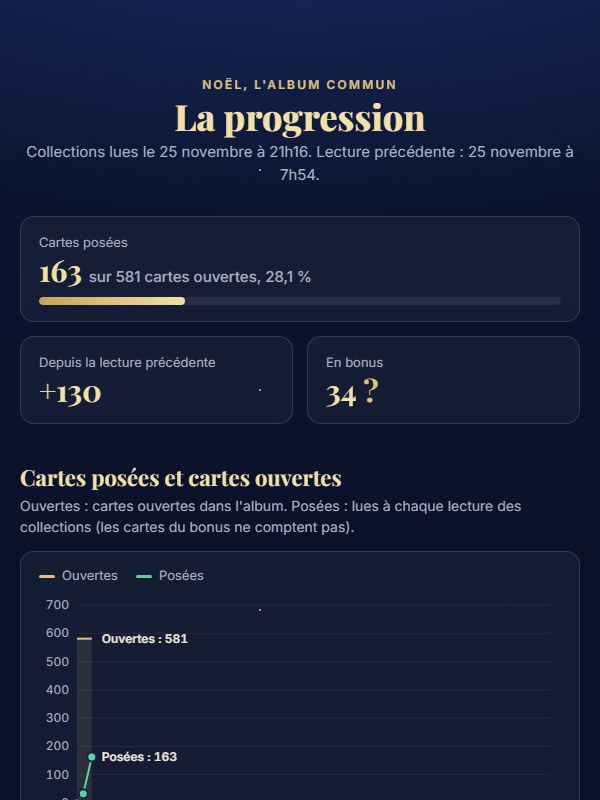
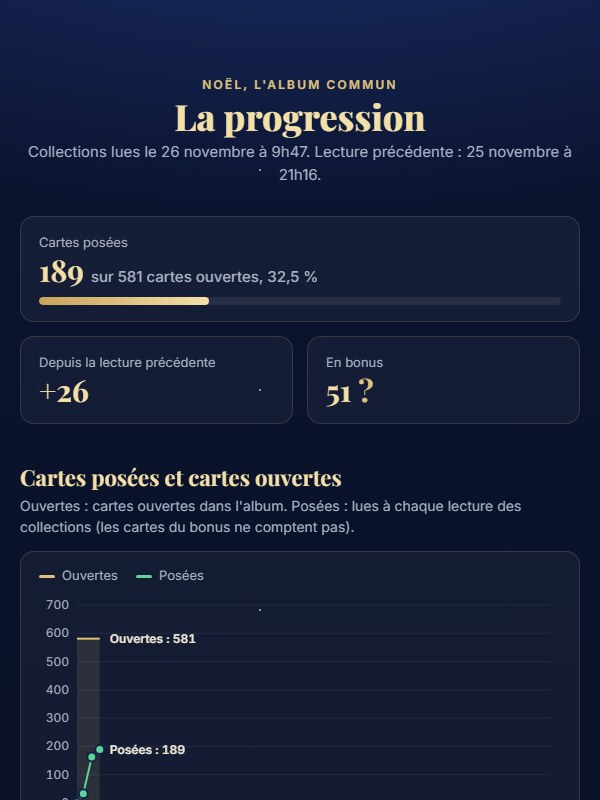
Noël : synchro du 26/11 (189 posées, 51 en bonus)

diff --git a/noel-progression/index.html b/noel-progression/index.html
@@ -113,7 +113,7 @@
 <footer>Projet entre amis. Jeu, nom et visuels à WikiMasters, images Wikipédia.</footer>
 </main>
 <script>
-  const DATA = {"when": "Collections lues le 25 novembre à 21h16. Lecture précédente : 25 novembre à 7h54.", "prev_label": "Depuis la lecture précédente", "autres_when": "Plus mis à jour depuis le 25 novembre. Dernière lecture : 24 novembre à 12h47.", "bonus": 34, "COLORS": {"MarionEddie": "#e07a5f", "ced_visno": "#3d9be9", "Axle92": "#5fae8a", "sergent tibs": "#e3b23c", "Dahevic": "#a77bdc", "Cuervo": "#e57fa8"}, "POOL": ["Nativité", "Traditions", "Saints", "Origines", "Films", "Animation"], "JOUEURS": [["MarionEddie", 14, [2, 2, 0, 2, 8, 5], 16], ["ced_visno", 32, [8, 14, 8, 5, 0, 0], 8], ["Axle92", 18, [2, 0, 3, 0, 1, 4], 4], ["sergent tibs", 27, [9, 0, 0, 0, 0, 0], 0], ["Dahevic", 0, [0, 0, 0, 0, 0, 0], 0], ["Cuervo", 2, [1, 0, 0, 0, 0, 0], 8]], "CHAPITRES": [["La Nativité", null, 62, 21, 10], ["Traditions et symboles", null, 55, 15, 0], ["Saints et porteurs de cadeaux", null, 24, 9, 0], ["Origines et fêtes d'hiver", null, 16, 7, 0], ["Films de Noël", null, 53, 9, 0], ["Animation, séries et acteurs", null, 58, 9, 1], ["Table de Noël", "ced_visno", 82, 32, 5], ["Jouets et cadeaux", "Dahevic", 37, 0, 0], ["Hiver et nature", "Cuervo", 33, 2, 0], ["Marchés, villes et Noël dans le monde", "sergent tibs", 62, 27, 5], ["Histoire, pop culture et pub", "MarionEddie", 36, 14, 3], ["Musique et littérature", "Axle92", 63, 18, 9]], "AUTRES": [["Ovalini", 142, 129], ["Le Grand Recensement", 225, 78]], "COURBE": {"open": [["2026-11-24T22:00:00+01:00", 581], ["2026-11-25T00:00:00+01:00", 581]], "posed": [["2026-11-24T22:00:00+01:00", 0], ["2026-11-25T07:54:48+01:00", 33], ["2026-11-25T21:16:09+01:00", 163]], "start": "2026-11-24T22:00:00+01:00", "end": "2026-12-25T23:59:00+01:00", "last": "2026-11-25T21:16:09+01:00"}};
+  const DATA = {"when": "Collections lues le 26 novembre à 9h47. Lecture précédente : 25 novembre à 21h16.", "prev_label": "Depuis la lecture précédente", "autres_when": "Plus mis à jour depuis le 25 novembre. Dernière lecture : 24 novembre à 12h47.", "bonus": 51, "COLORS": {"MarionEddie": "#e07a5f", "ced_visno": "#3d9be9", "Axle92": "#5fae8a", "sergent tibs": "#e3b23c", "Dahevic": "#a77bdc", "Cuervo": "#e57fa8"}, "POOL": ["Nativité", "Traditions", "Saints", "Origines", "Films", "Animation"], "JOUEURS": [["MarionEddie", 16, [2, 3, 0, 2, 8, 5], 20], ["ced_visno", 34, [10, 19, 8, 6, 0, 0], 10], ["Axle92", 22, [2, 0, 3, 0, 1, 4], 5], ["sergent tibs", 30, [9, 1, 0, 0, 0, 0], 0], ["Dahevic", 0, [0, 0, 0, 0, 0, 0], 0], ["Cuervo", 6, [1, 0, 0, 0, 1, 0], 19]], "CHAPITRES": [["La Nativité", null, 62, 23, 21], ["Traditions et symboles", null, 55, 22, 15], ["Saints et porteurs de cadeaux", null, 24, 9, 9], ["Origines et fêtes d'hiver", null, 16, 8, 7], ["Films de Noël", null, 53, 10, 9], ["Animation, séries et acteurs", null, 58, 9, 9], ["Table de Noël", "ced_visno", 82, 34, 32], ["Jouets et cadeaux", "Dahevic", 37, 0, 0], ["Hiver et nature", "Cuervo", 33, 6, 2], ["Marchés, villes et Noël dans le monde", "sergent tibs", 62, 30, 27], ["Histoire, pop culture et pub", "MarionEddie", 36, 16, 14], ["Musique et littérature", "Axle92", 63, 22, 18]], "AUTRES": [["Ovalini", 142, 129], ["Le Grand Recensement", 225, 78]], "COURBE": {"open": [["2026-11-24T22:00:00+01:00", 581], ["2026-11-25T00:00:00+01:00", 581], ["2026-11-26T00:00:00+01:00", 581]], "posed": [["2026-11-24T22:00:00+01:00", 0], ["2026-11-25T07:54:48+01:00", 33], ["2026-11-25T21:16:09+01:00", 163], ["2026-11-26T09:47:52+01:00", 189]], "start": "2026-11-24T22:00:00+01:00", "end": "2026-12-25T23:59:00+01:00", "last": "2026-11-26T09:47:52+01:00"}};
   const { COLORS, POOL, JOUEURS, CHAPITRES, AUTRES } = DATA;
   document.getElementById("when").textContent = DATA.when;
   document.getElementById("autres-when").textContent = DATA.autres_when;
